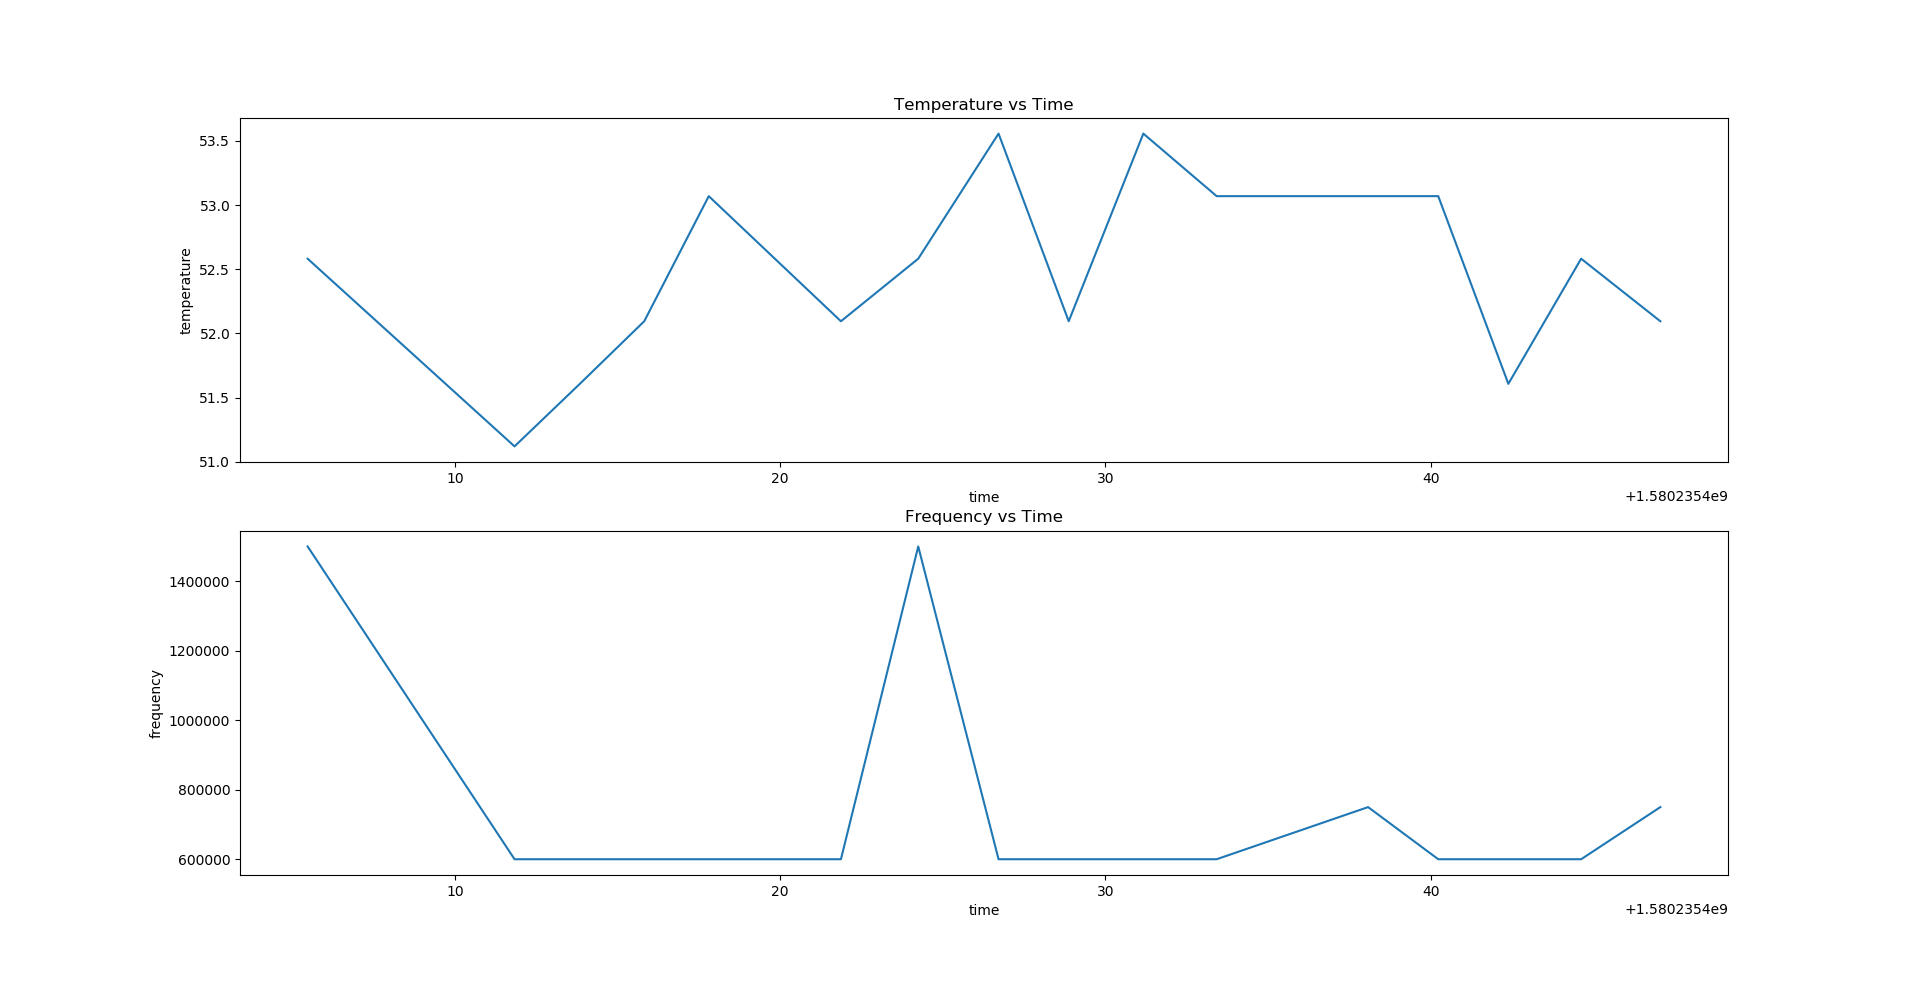
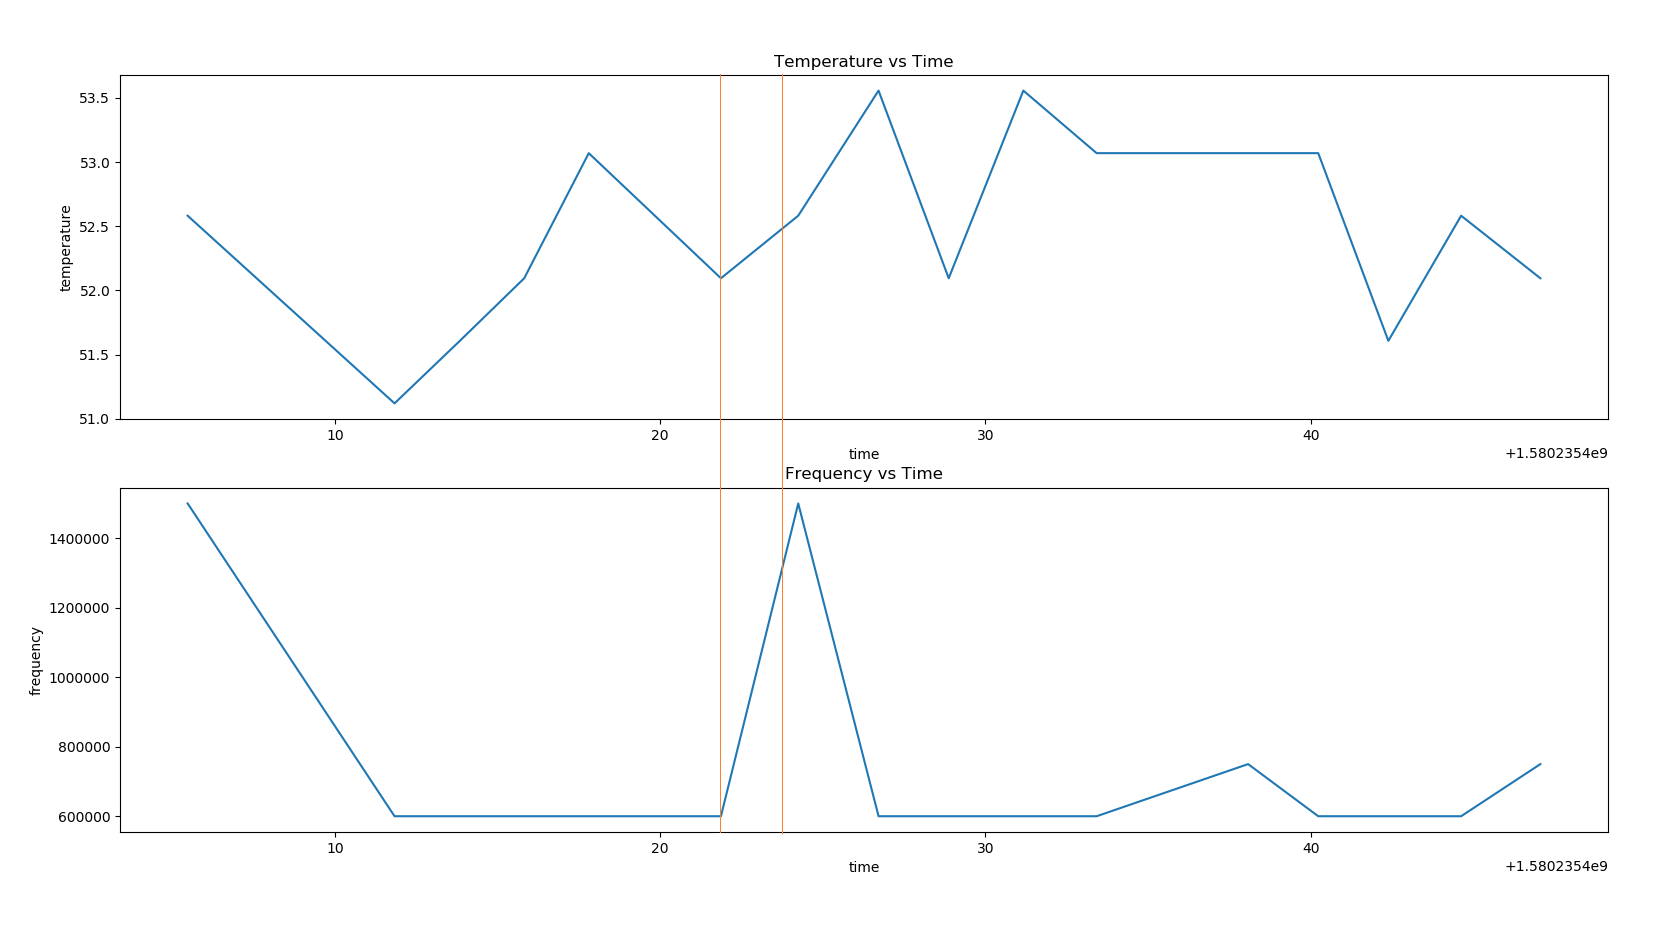
Add time markers in language performance images Make language performance images bigger

diff --git a/projects/performance-analysis-of-programming-languages.md b/projects/performance-analysis-of-programming-languages.md
@@ -35,13 +35,13 @@ An additional program was written using python and matplotlib to measure CPU fre
 
 ### Frequency and Temperature while running C++ benchmarks
 **On-Demand**
-<img class="ui large rounded image" src="/images/performance-analysis-of-programming-languages/frequency-temperature-C++-on-demand.png" alt="CPU frequency and temperature during C++ benchmark | Governor On-Demand">
+<img class="ui huge rounded image" src="/images/performance-analysis-of-programming-languages/frequency-temperature-C++-on-demand.png" alt="CPU frequency and temperature during C++ benchmark | Governor On-Demand">
 CPU frequency is dynamic and is adjusted based on utilization. The benchmark started after the 20 time mark and ran for 1.76 seconds. We can see a slight increase in temperature and bump in frequency when the test ran.
 
 **Performance**
-<img class="ui large rounded image" src="/images/performance-analysis-of-programming-languages/frequency-temperature-C++-performance.png" alt="CPU frequency and temperature during C++ benchmark | Governor Performance">
+<img class="ui huge rounded image" src="/images/performance-analysis-of-programming-languages/frequency-temperature-C++-performance.png" alt="CPU frequency and temperature during C++ benchmark | Governor Performance">
 CPU frequency is fixed at 1.5 GHz. The benchmark started at 17.5 mark and ran for 1.74 seconds.
 
 **Powersave**
-<img class="ui large rounded image" src="/images/performance-analysis-of-programming-languages/frequency-temperature-C++-powersave.png" alt="CPU frequency and temperature during C++ benchmark | Governor Powersave">
+<img class="ui huge rounded image" src="/images/performance-analysis-of-programming-languages/frequency-temperature-C++-powersave.png" alt="CPU frequency and temperature during C++ benchmark | Governor Powersave">
 CPU frequency is fixed at 600 MHz. The benchmark started at 27.5 mark and ran for 4.36 seconds.
